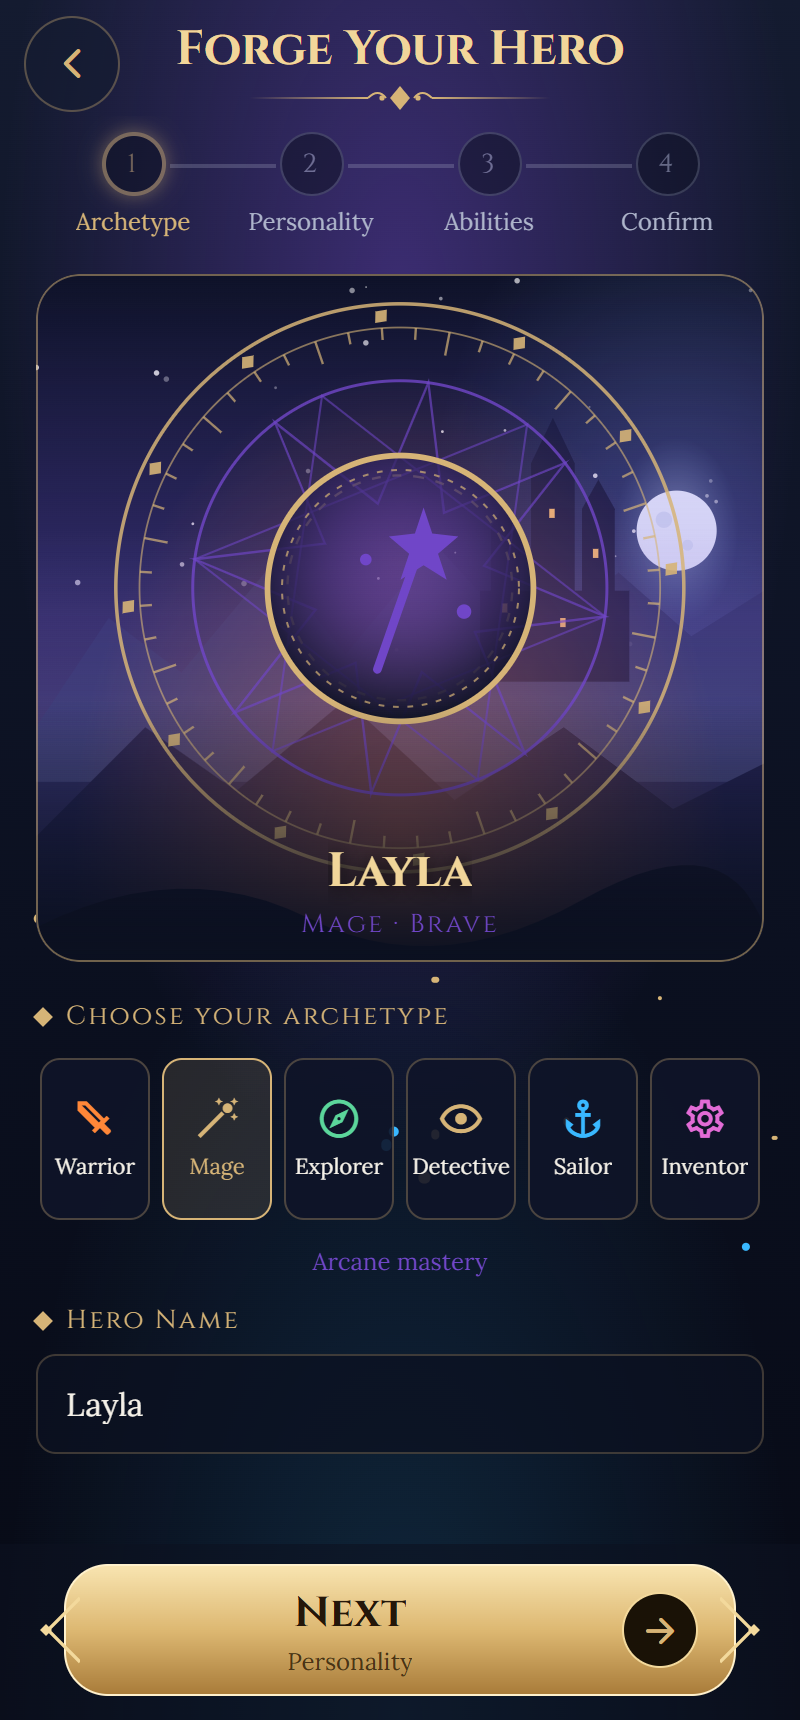
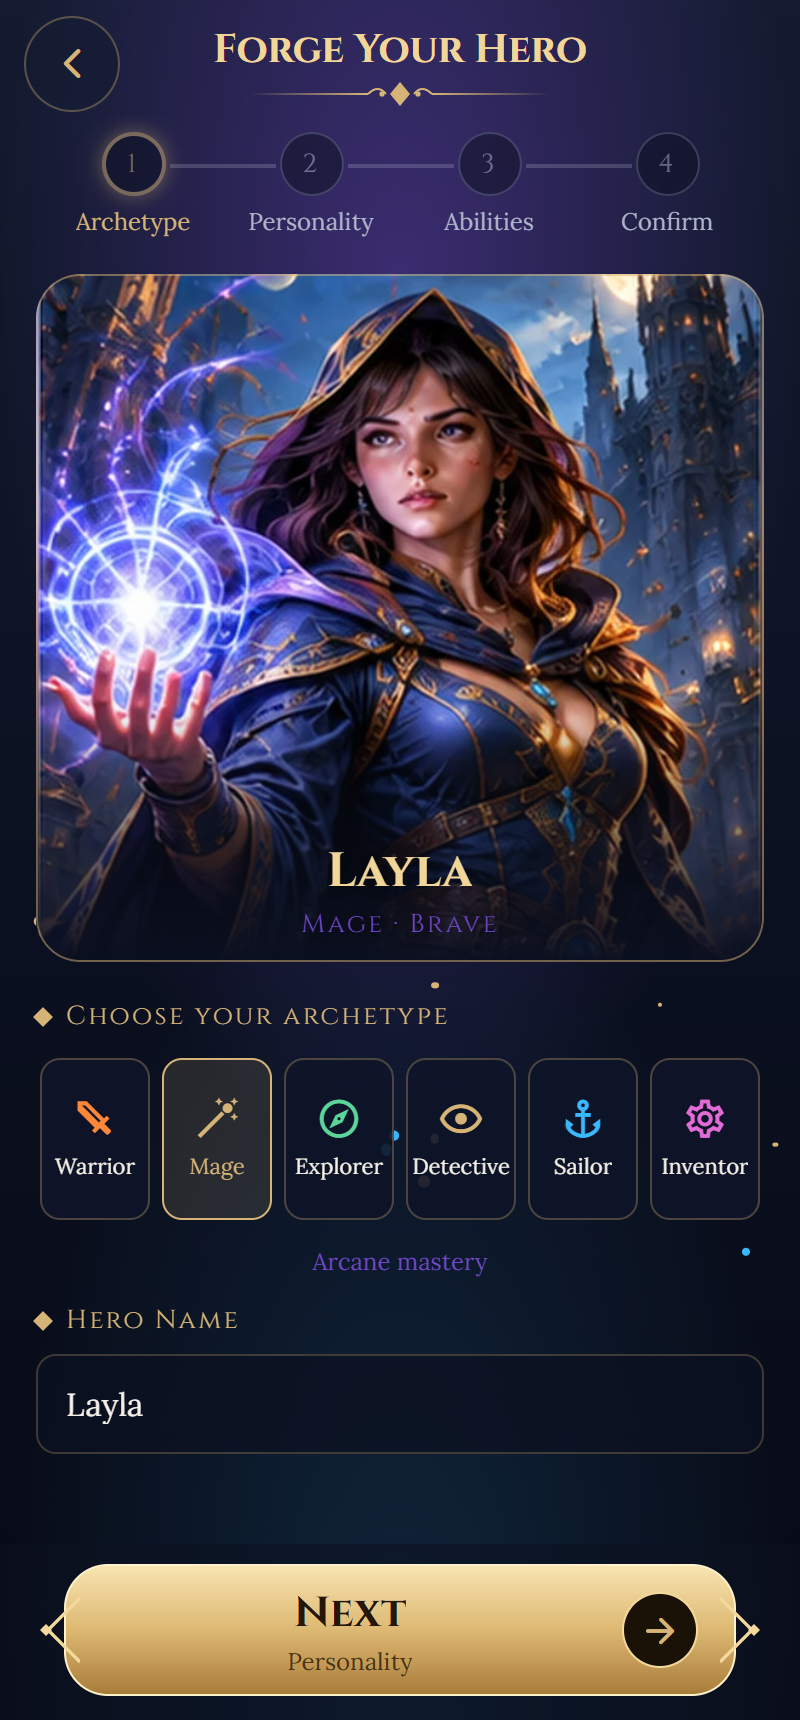
Integrate cinematic artwork into Home, World Selection, and Character Creation
- Registers all 15 illustrations (home hero, 8 worlds, 6 archetype
  portraits) via npm run art; all are included in the Android bundle.
- Per-slot framing: portraits are cropped to their painted center band
  and anchored so every face clears the nameplate.
- Home hero starts just below the measured logo so the storyteller's
  hood is never hidden; softer top fade keeps the tagline readable.
- English text fit: two-line world names with equal-height rows,
  slightly smaller Latin header titles, shadowed portrait subline.
- Approved layouts unchanged; OpenRouter and story engine untouched.

Changed region(s): [[0.0312, 0.1541, 0.9688, 0.5547], [0.2188, 0.0, 0.7812, 0.0616]]

diff --git a/src/components/art/ArtFrame.tsx b/src/components/art/ArtFrame.tsx
@@ -1,9 +1,10 @@
 import { Image } from 'expo-image';
 import { LinearGradient } from 'expo-linear-gradient';
-import type { ReactNode } from 'react';
-import { StyleSheet, View, type StyleProp, type ViewStyle } from 'react-native';
+import { useState, type ReactNode } from 'react';
+import { StyleSheet, View, type DimensionValue, type StyleProp, type ViewStyle } from 'react-native';
 
 import { art } from '@/assets/art';
+import { FRAMING, type Framing } from '@/assets/framing';
 import type { ArtSlot } from '@/assets/slots';
 import { colors } from '@/theme';
 
@@ -16,24 +17,50 @@ type Props = {
   fadeBottom?: boolean;
   fadeTop?: boolean;
   fadeTo?: string;
+  /** Height of each fade, default 38%. */
+  fadeTopSize?: DimensionValue;
+  fadeBottomSize?: DimensionValue;
   contentPosition?: 'center' | 'top' | 'bottom';
 };
 
+/** Positions the image so band [x, x+w] fills the width, starting at fraction y (clamped to keep the frame covered). */
+function framedStyle(f: Framing, w: number, h: number) {
+  const imgW = w / f.w;
+  const imgH = imgW / f.ratio;
+  const top = Math.min(Math.max(f.y * imgH, 0), Math.max(imgH - h, 0));
+  return { position: 'absolute' as const, width: imgW, height: imgH, left: -f.x * imgW, top: -top };
+}
+
 /** Cinematic artwork area: bundled illustration when available, vector fallback otherwise. */
-export function ArtFrame({ slot, fallback, style, fadeBottom, fadeTop, fadeTo = colors.bg, contentPosition = 'center' }: Props) {
+export function ArtFrame({ slot, fallback, style, fadeBottom, fadeTop, fadeTo = colors.bg, fadeTopSize = '38%', fadeBottomSize = '38%', contentPosition = 'center' }: Props) {
   const source = art(slot);
+  const framing = FRAMING[slot];
+  const [size, setSize] = useState<{ w: number; h: number } | null>(null);
+
+  let image: ReactNode = null;
+  if (source && framing) {
+    image = size ? <Image source={source} style={framedStyle(framing, size.w, size.h)} contentFit="fill" transition={250} /> : null;
+  } else if (source) {
+    image = <Image source={source} style={StyleSheet.absoluteFill} contentFit="cover" contentPosition={contentPosition} transition={250} />;
+  }
+
   return (
-    <View style={[styles.wrap, style]} accessibilityElementsHidden importantForAccessibility="no-hide-descendants">
-      {source ? <Image source={source} style={StyleSheet.absoluteFill} contentFit="cover" contentPosition={contentPosition} transition={250} /> : fallback}
-      {fadeTop && <LinearGradient colors={[`${fadeTo}E6`, `${fadeTo}00`]} locations={[0, 1]} style={[styles.fade, styles.top]} pointerEvents="none" />}
-      {fadeBottom && <LinearGradient colors={[`${fadeTo}00`, fadeTo]} locations={[0, 1]} style={[styles.fade, styles.bottom]} pointerEvents="none" />}
+    <View
+      style={[styles.wrap, style]}
+      onLayout={framing ? (e) => setSize({ w: e.nativeEvent.layout.width, h: e.nativeEvent.layout.height }) : undefined}
+      accessibilityElementsHidden
+      importantForAccessibility="no-hide-descendants"
+    >
+      {source ? image : fallback}
+      {fadeTop && <LinearGradient colors={[fadeTo, `${fadeTo}00`]} style={[styles.fade, styles.top, { height: fadeTopSize }]} pointerEvents="none" />}
+      {fadeBottom && <LinearGradient colors={[`${fadeTo}00`, fadeTo]} style={[styles.fade, styles.bottom, { height: fadeBottomSize }]} pointerEvents="none" />}
     </View>
   );
 }
 
 const styles = StyleSheet.create({
   wrap: { overflow: 'hidden' },
-  fade: { position: 'absolute', left: 0, right: 0, height: '38%' },
+  fade: { position: 'absolute', left: 0, right: 0 },
   top: { top: 0 },
   bottom: { bottom: 0 },
 });

diff --git a/src/app/home.tsx b/src/app/home.tsx
@@ -1,9 +1,10 @@
 import { router } from 'expo-router';
-import { useMemo } from 'react';
+import { useMemo, useState } from 'react';
 import { ScrollView, StyleSheet, useWindowDimensions, View } from 'react-native';
 import Animated, { FadeIn, FadeInDown } from 'react-native-reanimated';
 import { useSafeAreaInsets } from 'react-native-safe-area-context';
 
+import { art } from '@/assets/art';
 import { ArtFrame } from '@/components/art/ArtFrame';
 import { HoodedSeer } from '@/components/art/HoodedSeer';
 import { NightVista } from '@/components/art/NightVista';
@@ -29,6 +30,12 @@ export default function Home() {
   const otherLang = settings.uiLanguage === 'ar' ? 'en' : 'ar';
 
   const resumable = useMemo(() => stories.find((st) => st.saved && st.mode === 'adventure' && !st.adventure?.finished), [stories]);
+  const [logoBottom, setLogoBottom] = useState(insets.top + 260);
+  const painted = !!art('home-hero');
+  // Painted hero (1080×1600): fit the width and start it just under the logo so the
+  // storyteller's hood (≈16% down the image) is never hidden behind the wordmark.
+  const paintedH = width * (1600 / 1080);
+  const paintedTop = Math.max(logoBottom + 40 - paintedH * 0.16, 0);
   const artHeight = Math.max(height * 0.74, 560);
   const seer = Math.min(width * 0.86, 380);
   const enter = (delay: number) => (calm ? undefined : FadeInDown.delay(delay).duration(650));
@@ -37,9 +44,11 @@ export default function Home() {
     <View style={styles.root}>
       <ArtFrame
         slot="home-hero"
-        style={[styles.art, { height: artHeight }]}
+        style={[styles.art, painted ? { top: paintedTop, height: paintedH } : { height: artHeight }]}
         fadeTop
         fadeBottom
+        fadeTopSize={painted ? '22%' : '38%'}
+        fadeBottomSize={painted ? '30%' : '38%'}
         contentPosition="top"
         fallback={
           <>
@@ -65,7 +74,11 @@ export default function Home() {
           <LanguageToggle />
         </View>
 
-        <Animated.View entering={calm ? undefined : FadeIn.duration(900)} style={styles.logo}>
+        <Animated.View
+          entering={calm ? undefined : FadeIn.duration(900)}
+          style={styles.logo}
+          onLayout={(e) => setLogoBottom(e.nativeEvent.layout.y + e.nativeEvent.layout.height)}
+        >
           <Logo size={Math.min(44, width * 0.105)} />
         </Animated.View>
 

diff --git a/src/components/WorldCard.tsx b/src/components/WorldCard.tsx
@@ -44,7 +44,7 @@ export function WorldCard({ world, width, selected, onPress }: Props) {
           <MaterialCommunityIcons name={world.icon} size={16} color={world.accent} />
         </View>
         <View style={styles.text}>
-          <AppText variant="heading" numberOfLines={1} color={selected ? colors.gold : colors.text} style={styles.name}>
+          <AppText variant="heading" numberOfLines={2} color={selected ? colors.gold : colors.text} style={styles.name}>
             {world.name[lang]}
           </AppText>
           <AppText variant="caption" numberOfLines={2} style={styles.tag}>
@@ -57,7 +57,9 @@ export function WorldCard({ world, width, selected, onPress }: Props) {
 }
 
 const styles = StyleSheet.create({
+  // Grows to the tallest card in its row so two-line names keep the grid even.
   card: {
+    flexGrow: 1,
     borderRadius: radius.md,
     borderWidth: 1.2,
     borderColor: 'rgba(214,180,119,0.45)',
@@ -82,7 +84,7 @@ const styles = StyleSheet.create({
     borderWidth: 1,
     borderColor: '#FFF1CC',
   },
-  info: { alignItems: 'center', gap: 7, paddingHorizontal: 8, paddingVertical: 9, minHeight: 62 },
+  info: { flexGrow: 1, alignItems: 'center', gap: 7, paddingHorizontal: 8, paddingVertical: 9, minHeight: 62 },
   medal: { width: 30, height: 30, borderRadius: 15, borderWidth: 1.2, alignItems: 'center', justifyContent: 'center', backgroundColor: 'rgba(11,16,32,0.8)' },
   text: { flex: 1 },
   name: { fontSize: 13.5, lineHeight: 19 },

diff --git a/src/assets/art.generated.ts b/src/assets/art.generated.ts
@@ -2,4 +2,19 @@
 import type { ArtSlot } from './slots';
 
 export const ART: Partial<Record<ArtSlot, number>> = {
+  'home-hero': require('../../assets/art/home-hero.webp'),
+  'world-lost-island': require('../../assets/art/world-lost-island.webp'),
+  'world-enchanted-forest': require('../../assets/art/world-enchanted-forest.webp'),
+  'world-ancient-kingdom': require('../../assets/art/world-ancient-kingdom.webp'),
+  'world-cyberpunk-city': require('../../assets/art/world-cyberpunk-city.webp'),
+  'world-desert-secrets': require('../../assets/art/world-desert-secrets.webp'),
+  'world-space-frontier': require('../../assets/art/world-space-frontier.webp'),
+  'world-haunted-mansion': require('../../assets/art/world-haunted-mansion.webp'),
+  'world-underwater-kingdom': require('../../assets/art/world-underwater-kingdom.webp'),
+  'hero-warrior': require('../../assets/art/hero-warrior.webp'),
+  'hero-mage': require('../../assets/art/hero-mage.webp'),
+  'hero-explorer': require('../../assets/art/hero-explorer.webp'),
+  'hero-detective': require('../../assets/art/hero-detective.webp'),
+  'hero-sailor': require('../../assets/art/hero-sailor.webp'),
+  'hero-inventor': require('../../assets/art/hero-inventor.webp'),
 };

diff --git a/src/components/Screen.tsx b/src/components/Screen.tsx
@@ -52,7 +52,7 @@ export function Screen({ title, subtitle, back, right, left, children, footer, s
       <View style={styles.title}>
         {title ? (
           <>
-            <AppText variant="title" center numberOfLines={1} color="#F1D69A" accessibilityRole="header">
+            <AppText variant="title" center numberOfLines={1} color="#F1D69A" accessibilityRole="header" style={!dir.isRTL && styles.titleLatin}>
               {title}
             </AppText>
             <GoldDivider width={150} />
@@ -99,6 +99,8 @@ const styles = StyleSheet.create({
   header: { alignItems: 'center', paddingHorizontal: 12, minHeight: TOUCH + 4 },
   side: { minWidth: TOUCH + 8 },
   title: { flex: 1, alignItems: 'center' },
+  // Cinzel caps run wide; keep English titles on one line beside the header buttons.
+  titleLatin: { fontSize: 20, lineHeight: 30 },
   subtitle: { paddingHorizontal: 24, paddingBottom: 6, fontSize: 13 },
   iconBtn: {
     width: TOUCH,

diff --git a/src/assets/framing.ts b/src/assets/framing.ts
@@ -1,0 +1,22 @@
+import type { ArtSlot } from './slots';
+
+/**
+ * How to frame a slot's image inside its container, in fractions of the source image:
+ *  - x / w: the horizontal band to show (fills the container width);
+ *  - y: where the visible window starts vertically (clamped so the frame stays covered);
+ *  - ratio: source width / height.
+ * Slots without an entry use plain "cover".
+ */
+export type Framing = { x: number; w: number; y: number; ratio: number };
+
+// The character portraits have blurred pillarbox bars; the painting is the middle 600 of 900px.
+const portrait = (y: number): Framing => ({ x: 150 / 900, w: 600 / 900, y, ratio: 900 / 1200 });
+
+export const FRAMING: Partial<Record<ArtSlot, Framing>> = {
+  'hero-warrior': portrait(0.07),
+  'hero-mage': portrait(0.09),
+  'hero-explorer': portrait(0.08),
+  'hero-detective': portrait(0.045),
+  'hero-sailor': portrait(0.09),
+  'hero-inventor': portrait(0.08),
+};

diff --git a/src/app/character.tsx b/src/app/character.tsx
@@ -93,7 +93,7 @@ export default function CharacterScreen() {
           <AppText variant="title" center color="#F1D69A" numberOfLines={1} style={styles.plateName}>
             {c.name.trim() || arch.name[lang]}
           </AppText>
-          <AppText variant="label" center color={arch.color}>
+          <AppText variant="label" center color={arch.color} style={styles.plateName}>
             {nameOk ? `${arch.name[lang]} · ${personality?.name[lang]}` : personality?.name[lang]}
           </AppText>
         </View>

diff --git a/scripts/sync-art.js b/scripts/sync-art.js
@@ -27,7 +27,6 @@ for (const slot of SLOTS.map((s) => s.slot)) {
 
 const lines = [
   '// AUTO-GENERATED by scripts/sync-art.js — do not edit. Run `npm run art` after adding images.',
-  ...(found.length ? ['/* eslint-disable @typescript-eslint/no-require-imports */'] : []),
   "import type { ArtSlot } from './slots';",
   '',
   'export const ART: Partial<Record<ArtSlot, number>> = {',
